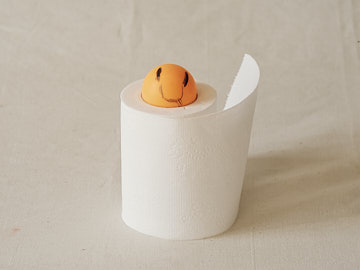
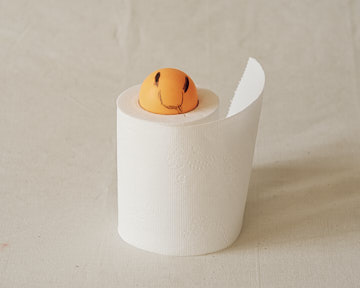
hp;owehr

diff --git a/contents/carbon.html b/contents/carbon.html
@@ -16,7 +16,7 @@
 </script>
 <body>
   <main class="container">  
-    <h2>까만 사탕(Carbon Dulce) / 2024-2026</h2>
+    <h2>까만 사탕(Carbon Dulce) / 2023-2026</h2>
         <!-- ✅ 이미지 갤러리 -->
     <div class="image-gallery one">
       <a href="https://episodearth.synology.me/images-large/carbon/img0.jpg" data-lightbox="gallery" data-title="까만 사탕 Carbon Dulce, 2024-2026"><img src="https://episodearth.synology.me/images-large/carbon/img0.jpg"></a>
@@ -74,7 +74,7 @@
         <li><a href="oosy.html" target="_blank">2009 《보이지 않는 당신》</a></li>
         <li><a href="st.html" target="_blank">2009-2015 《돌탑》</a></li>
         <li><a href="af.html" target="_blank">2011- 《조화》</a></li>
-        <li><a href="carbon.html" target="_blank">2024-2026 《까만 사탕》</a></li>
+        <li><a href="carbon.html" target="_blank">2023-2026 《까만 사탕》</a></li>
         <!--<li><a href="#" target="_blank">2020-25 거미</a></li>-->
         <!--<li><a href="/contents/carbon.html" target="_blank">2024- 까르본까라멜로</a></li>
         <li><a href="#" target="_blank">2025- 헐렁한 점퍼</a></li>-->

diff --git a/contents/af.html b/contents/af.html
@@ -88,7 +88,7 @@
         <li><a href="oosy.html" target="_blank">2009 《보이지 않는 당신》</a></li>
         <li><a href="st.html" target="_blank">2009-2015 《돌탑》</a></li>
         <li><a href="af.html" target="_blank">2011- 《조화》</a></li>
-        <li><a href="carbon.html" target="_blank">2024-2026 《까만 사탕》</a></li>
+        <li><a href="carbon.html" target="_blank">2023-2026 《까만 사탕》</a></li>
         <!--<li><a href="#" target="_blank">2020-25 거미</a></li>-->
         <!--<li><a href="/contents/carbon.html" target="_blank">2024- 까르본까라멜로</a></li>
         <li><a href="#" target="_blank">2025- 헐렁한 점퍼</a></li>-->

diff --git a/contents/oosy.html b/contents/oosy.html
@@ -89,7 +89,7 @@
         <li><a href="oosy.html" target="_blank">2009 《보이지 않는 당신》</a></li>
         <li><a href="st.html" target="_blank">2009-2015 《돌탑》</a></li>
         <li><a href="af.html" target="_blank">2011- 《조화》</a></li>
-        <li><a href="carbon.html" target="_blank">2024-2026 《까만 사탕》</a></li>
+        <li><a href="carbon.html" target="_blank">2023-2026 《까만 사탕》</a></li>
     </ul>
     <a href="../index.html">🔙 돌아가기</a>
      <!-- 클릭 시 아래에 바로 표시되는 콘텐츠 

diff --git a/contents/kod.html b/contents/kod.html
@@ -113,7 +113,7 @@
         <li><a href="oosy.html" target="_blank">2009 《보이지 않는 당신》</a></li>
         <li><a href="st.html" target="_blank">2009-2015 《돌탑》</a></li>
         <li><a href="af.html" target="_blank">2011- 《조화》</a></li>
-        <li><a href="carbon.html" target="_blank">2024-2026 《까만 사탕》</a></li>
+        <li><a href="carbon.html" target="_blank">2023-2026 《까만 사탕》</a></li>
                     
     </ul>
     <a href="../index.html">🔙 돌아가기</a>

diff --git a/contents/cambo.html b/contents/cambo.html
@@ -40,7 +40,7 @@
         <li><a href="oosy.html" target="_blank">2009 《보이지 않는 당신》</a></li>
         <li><a href="st.html" target="_blank">2009-2015 《돌탑》</a></li>
         <li><a href="af.html" target="_blank">2011- 《조화》</a></li>
-        <li><a href="carbon.html" target="_blank">2024-2026 《까만 사탕》</a></li>
+        <li><a href="carbon.html" target="_blank">2023-2026 《까만 사탕》</a></li>
                     
     </ul>
     <a href="../index.html">🔙 돌아가기</a>

diff --git a/contents/st.html b/contents/st.html
@@ -146,7 +146,7 @@
         <li><a href="oosy.html" target="_blank">2009 《보이지 않는 당신》</a></li>
         <li><a href="st.html" target="_blank">2009-2015 《돌탑》</a></li>
         <li><a href="af.html" target="_blank">2011- 《조화》</a></li>
-        <li><a href="carbon.html" target="_blank">2024-2026 《까만 사탕》</a></li>
+        <li><a href="carbon.html" target="_blank">2023-2026 《까만 사탕》</a></li>
     </ul>
 
     <a href="../index.html">🔙 돌아가기</a>

diff --git a/contents/haj.html b/contents/haj.html
@@ -115,7 +115,7 @@
         <li><a href="oosy.html" target="_blank">2009 《보이지 않는 당신》</a></li>
         <li><a href="st.html" target="_blank">2009-2015 《돌탑》</a></li>
         <li><a href="af.html" target="_blank">2011- 《조화》</a></li>
-        <li><a href="carbon.html" target="_blank">2024-2026 《까만 사탕》</a></li>
+        <li><a href="carbon.html" target="_blank">2023-2026 《까만 사탕》</a></li>
                     
     </ul>   
             
